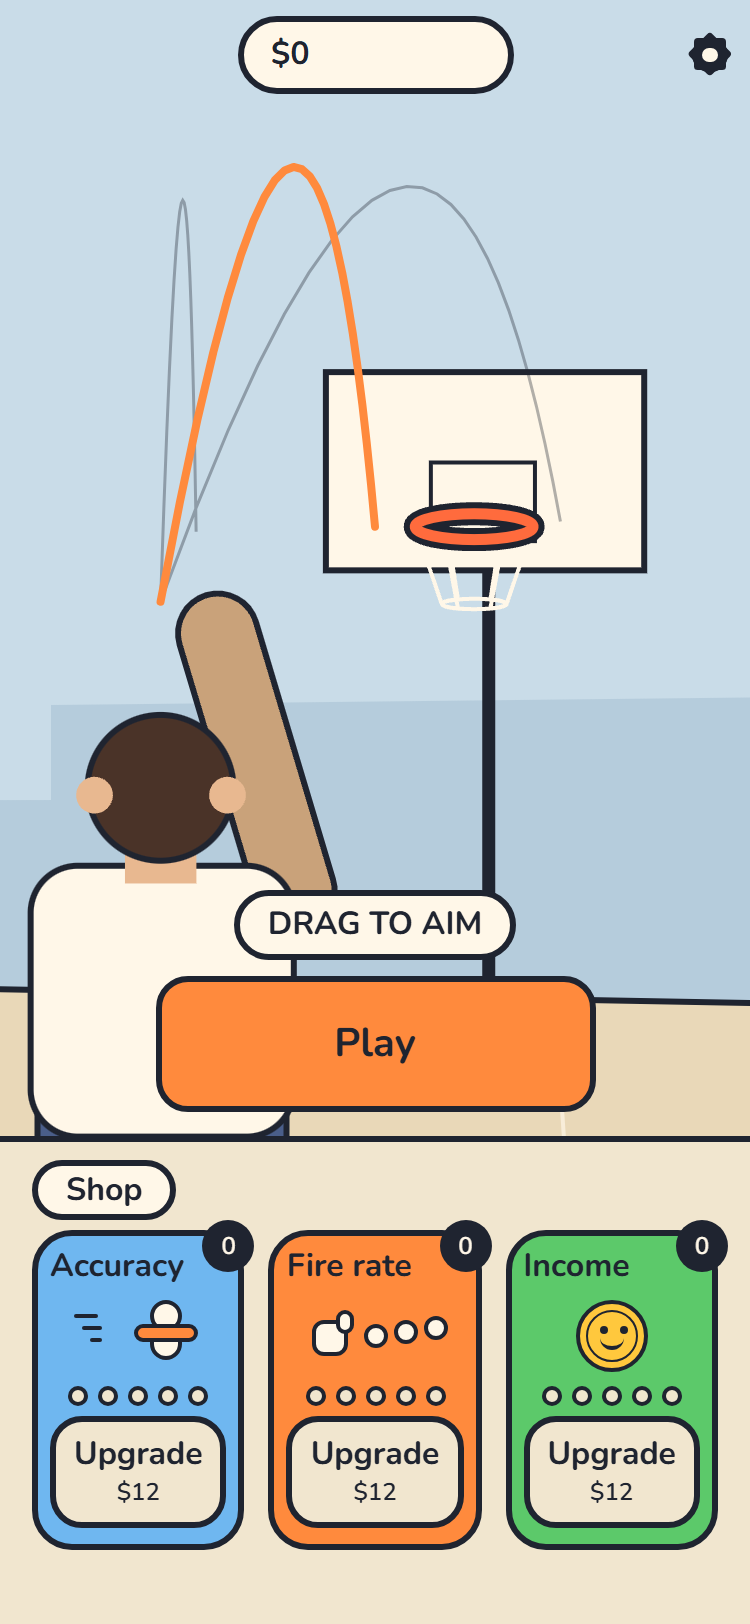
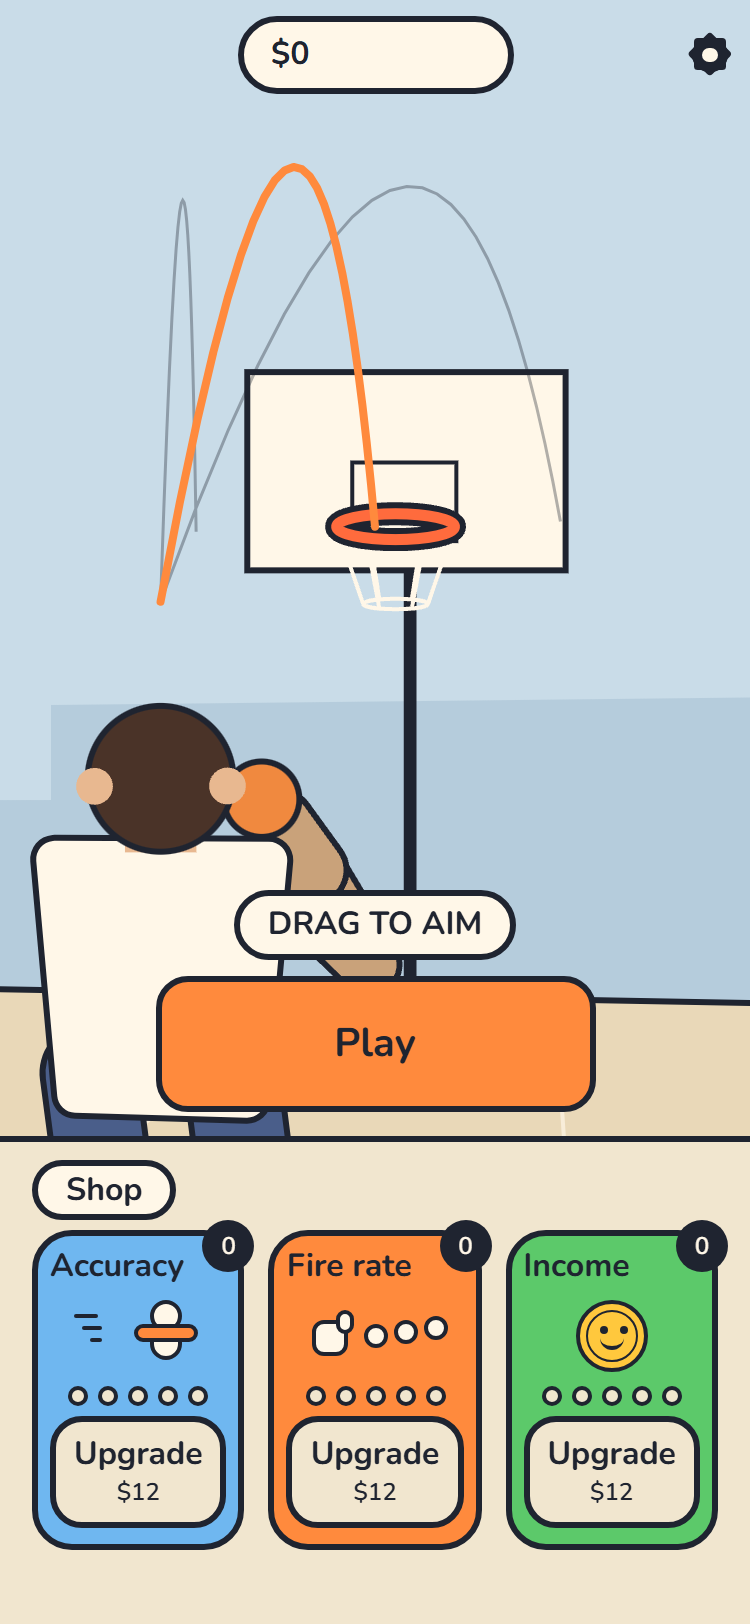
docs: the rig in the design rules, status, decisions; new screenshots

diff --git a/docs/design-rules.md b/docs/design-rules.md
@@ -112,7 +112,8 @@ Rules:
 - The player sees the character **from behind** (2026-11-16): the back of the head is hair with two ears, the shirt is `paper`, the trousers `trousers`. The face shows when the character looks over its shoulder at the camera: after a perfect round (smug), when a ball bounces back and hits it (surprise), and when a new character walks in. Limbs on the back are nearest to the camera and are drawn over the torso; the others reach around it.
 - The character is **not an athlete**. Slightly wrong clothes for the sport: socks with sandals on the golf course, a tie in the gym. One wrong item per character, not a costume.
 - Idle: breathes (2% scale on the torso, 2.4 s loop). Nothing else loops.
-- Shooting: anticipation (arm back, 80 ms), release (arm forward, ball leaves, 60 ms), settle (120 ms). Heavy balls stretch anticipation to 160 ms and add the strain face.
+- Shooting (owner 2026-11-16: "bend the knees, stretch the arm, flick the hand"; built as a rig in `src/features/play/rig.ts`): the body is a skeleton with hips, shoulders, two legs with knees and any number of arms with elbows and wrists, posed by two-bone inverse kinematics every frame. One shot, in seconds around the moment the ball leaves: dip (−0.40 to −0.12 s: knees bend, the ball comes down to the chest), rise (to 0: knees extend, the arm straightens up to the release point, wrist cocked back), flick (0 to 0.08 s: the wrist snaps forward), follow-through (to 0.30 s), return to the hold (to 0.55 s). The hold is the ball at the chin with the elbows out. When shots come faster than the cycle, the cycle is squeezed into the gap, so a fast arm pumps instead of freezing. The knees follow the deepest dip of any arm; the torso leans into it. Heavy balls will stretch the dip and add the strain face (not built yet).
+- **Every added arm knows how to move**: it hangs from its anchor (section 8 below), bends its elbow down and out, holds its own ball, and runs the same cycle on its own fire schedule. Arms on the back are nearest the camera and are drawn over the torso; the others reach around it.
 - Reacting: a miss that bounces back and hits the character gets the surprise face and a 3-frame shake. A perfect round gets smug. Reactions last under 600 ms and never block input.
 
 Extra limbs (see `docs/game-design.md`; the limbs are a surprise). Each sport uses the body part the sport uses: arms in basketball and golf, **feet in football**. Every sport starts with one of that limb. Characters are per sport.

diff --git a/docs/STATUS.md b/docs/STATUS.md
@@ -15,6 +15,9 @@ Where the project stands and what comes next. Updated 2026-11-16.
 - Simulator (`npm run simulate`): a bot on the real engine with the yaw aim, pacing report, pacing test in CI. Balance tuned on the
   third-person engine (2026-11-16): first upgrade after round 1, ball swap at 4 min, second limb at 15 min, third at 26 min, second
   sport at 66 min. See `docs/pacing-report.md`.
+- Character rig (`src/features/play/rig.ts`, 24 tests): skeleton with two-bone IK for legs and any number of arms, the shot cycle
+  (dip, rise, flick, follow-through, return) per arm on its own fire schedule, squeezed at high fire rates, knees following the deepest
+  dip, breath when idle, the ball in the hands until the release.
 - Screenshot tool (`npm run screenshot`): exports the web build, opens it in headless Chrome at phone size and writes PNGs of idle,
   aiming, the first shots, mid-round and the result. The lead now sees the game before the owner does. The web build runs the real app
   (CanvasKit for Skia, localStorage for the save).
@@ -32,8 +35,9 @@ Where the project stands and what comes next. Updated 2026-11-16.
   golf are not in version 1. Tune again after real play.
 - Sound: `services.audio` is silent. Needs CC0 sounds per design rules section 11.
 - Icon, splash and store assets: template placeholders.
-- Character: no shooting animation yet (anticipation, release, settle), no breathing, no face (the face shows when the character looks
-  over its shoulder; not built), no limb fold-in on arrival, no new-ball roll-in (design rules sections 8 and 9).
+- Character: rig with knees, elbows, wrists and the shot cycle is in (2026-11-16); still missing: the face (shows when the character
+  looks over its shoulder), the strain face and longer dip for heavy balls, limb fold-in on arrival, the new-ball roll-in, the football
+  kick cycle (feet use the arm cycle for now) (design rules sections 8 and 9).
 - Football and golf: data, target branches and simple drawings exist; untested on the phone, not in version 1.
 - Hard mode, Trophies spending UI (sport selector), mastery display: not built.
 - Phase 2 services: AdMob, RevenueCat, crash reporting (needs a development build and the Apple account).

diff --git a/docs/decisions.md b/docs/decisions.md
@@ -100,3 +100,12 @@ Verified on the owner's phone before this change: balls visible with outlines (f
 | Camera moved **behind the right shoulder** (0.9 m to the right, 3 m back, 1.5 m high, turned to look at the target). Character left of center, target on the center line. | From dead behind, the shooting hand was behind the head and the arc a vertical line. |
 | **Release height 2.0 m** (was 1.6 m, chest). | The arc now starts above the head, where a set shot leaves the hands, instead of out of the back of the skull. Launch speeds follow. |
 | The commentator's line sits in a paper **pill**, like the money counter. | Plain ink text over the character's shirt was unreadable. A pill is not a panel. |
+
+## 2026-11-16, the character rig (owner asked, lead built)
+
+| Decision | Reason / note |
+|---|---|
+| **Rig in code**, not hand animation: a skeleton posed by two-bone inverse kinematics every frame, with a shot cycle per arm (dip, rise, flick, follow-through, return). Numbers and timings in `src/features/play/rig.ts`. | Owner: "not realistic, but good movement; bend the knees before shooting, stretch the arm, flick the hand; each addable arm should know how it has to be animated". Code is the only way the uncapped procedural arms all move. |
+| The cycle is **squeezed into the fire period** when shots come faster than 0.95 s apart. | A fast arm must pump, not freeze or skip the dip. The release always sits at the engine's fire time. |
+| The hold is the ball at the chin with elbows out; the torso is a trapezoid that leans into the dip. | From behind, a ball held at the chest hides behind the back; at the chin the forearms show beside the torso and the dip reads. |
+| Still open for the owner to judge from the screenshots and the next phone test: whether the code character is good enough or body parts should be commissioned (plan step 4 of 2026-11-16). | The rig stays either way; an artist would replace the shapes, not the motion. |
